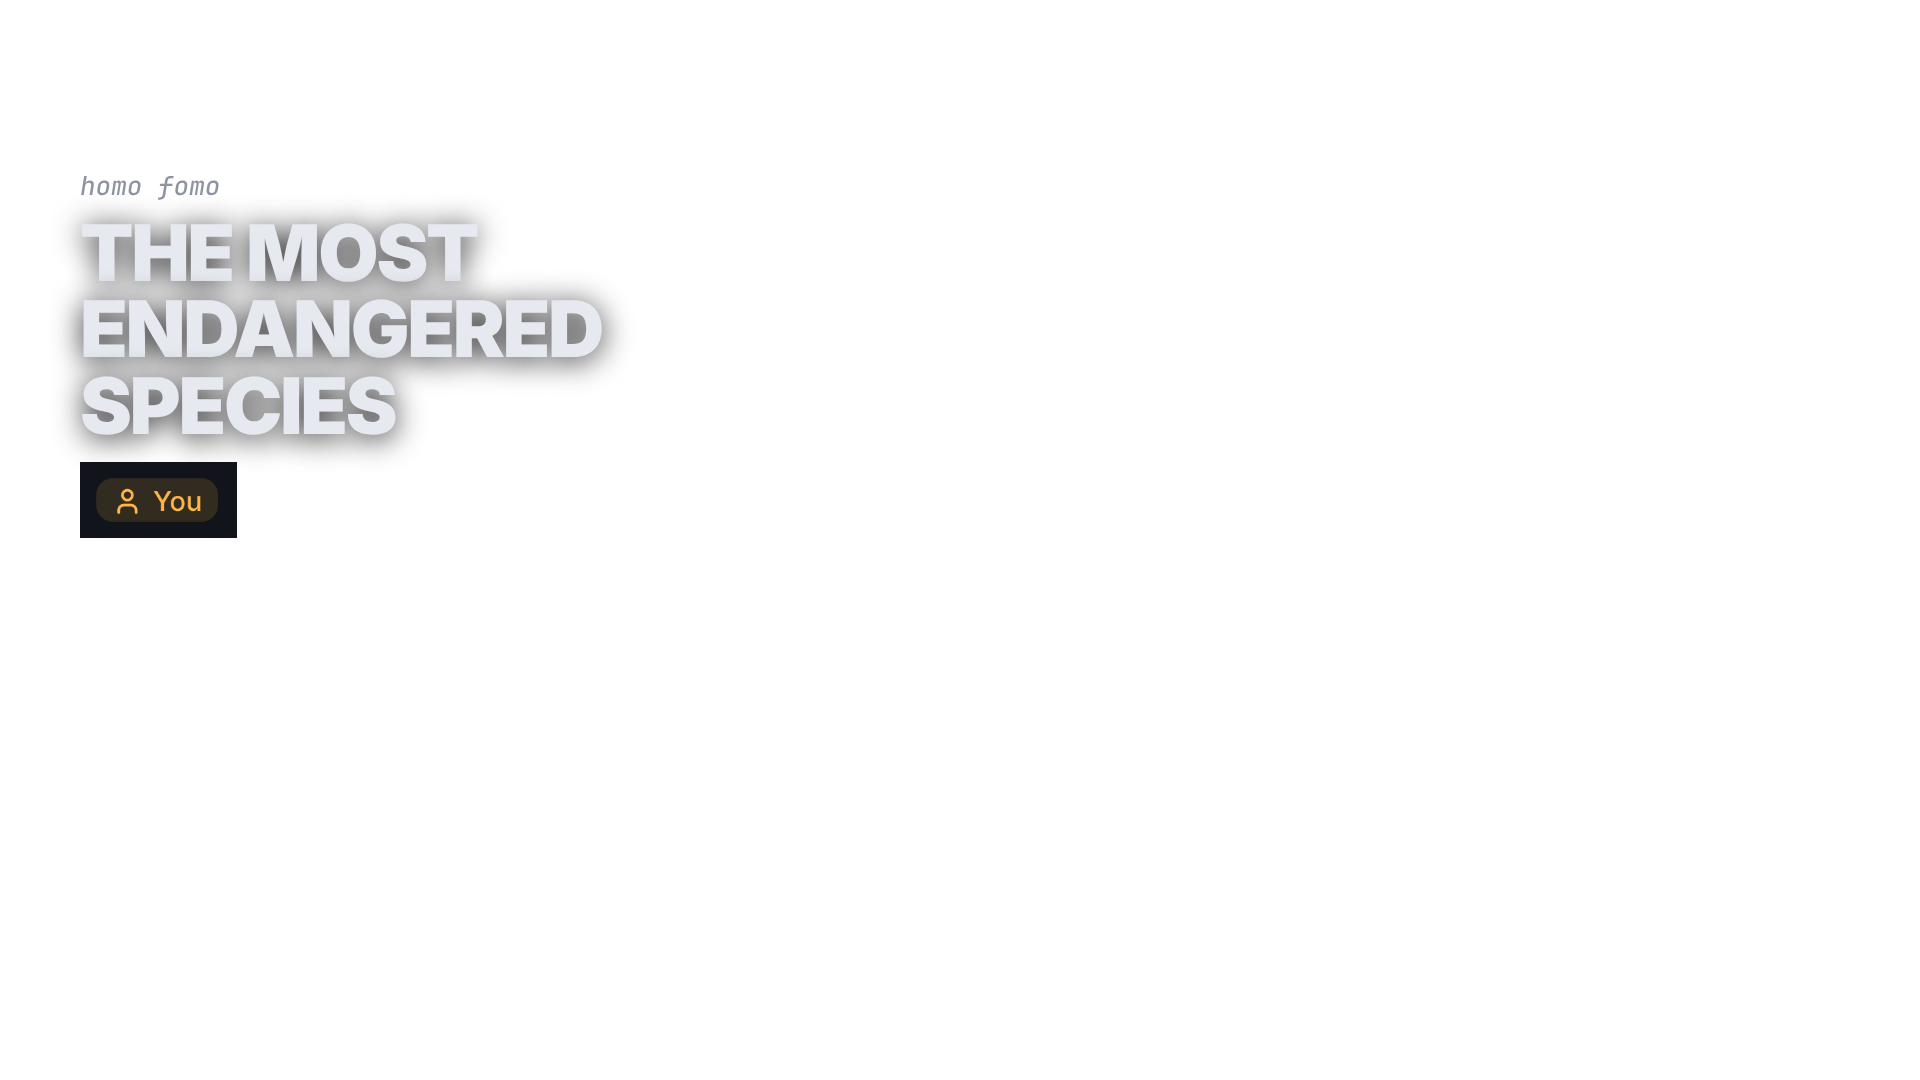
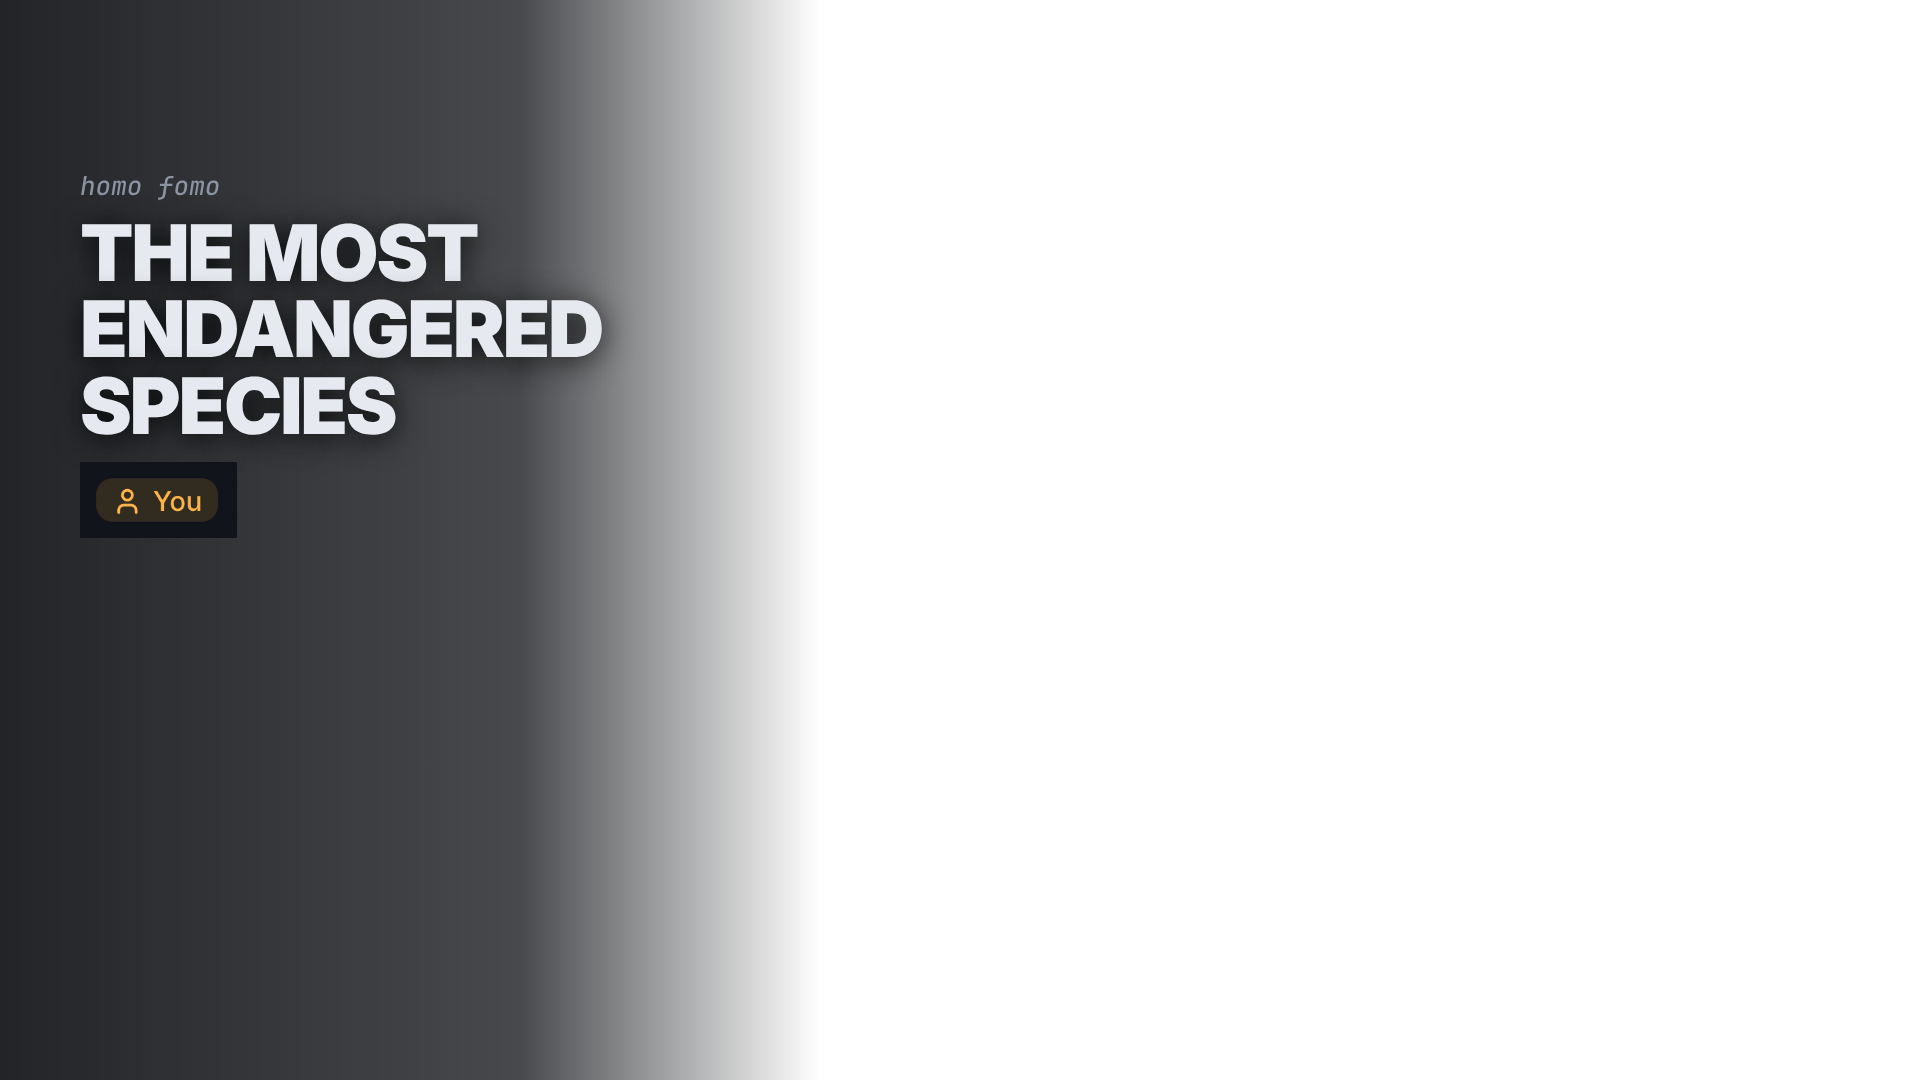
Trailer: episode label in the letterbox, scrim behind the homo-fomo column, toast shot on the fill with tickers blurred
Claude-Session: https://claude.ai/code/session_017xU29rumcgkrYhmPPFcfdL

diff --git a/marketing/tools/trailer_edit.py b/marketing/tools/trailer_edit.py
@@ -27,7 +27,8 @@ GATE = f"{APP}/trailer-gate.mp4"
 # The audit panel is static before the dialog dims the page, so shot 8 uses a real frame at t=0.3 s.
 GATE_STILL = f"{APP}/trailer-gate-t0.3.png"
 gate_blur_dialog = [[1790, 286, 116, 48], [2040, 922, 220, 48]]
-gate_blur_toast = [[3300, 128, 180, 44], [3200, 168, 700, 64], [3560, 600, 220, 90]]
+# The two ticker words in the fill toast ("Bought XXX" / "N XXX for ...").
+gate_blur_toast = [[3290, 136, 100, 34], [3308, 176, 86, 32]]
 
 segments = [
     ai(1),                                                                                     # 0.0  whale
@@ -42,7 +43,7 @@ segments = [
     {"src": f"{OV}/s9-card.png", "still": True, "dur": 1.2},                                   # 18.6 card
     {"src": GATE, "start": 1.1, "end": 1.6, "crop": [2600, 100, 1240, 698], "blur": [[3560, 548, 220, 80]]},                   # 19.8 quote preview
     {"src": GATE, "start": 3.75, "end": 6.05, "crop": [840, 260, 1920, 1080], "blur": gate_blur_dialog},  # 20.3 dialog, tick, click
-    {"src": GATE, "start": 6.35, "end": 7.75, "crop": [2600, 100, 1240, 698], "blur": gate_blur_toast},   # 22.6 fill toast
+    {"src": GATE, "start": 6.95, "end": 8.35, "crop": [2880, 80, 960, 540], "zoom": [1.0, 1.04], "blur": gate_blur_toast},  # 22.6 fill toast
     ai(11),                                                                                    # 24.0 the rug
     {"src": f"{APP}/{rug_clip}.mp4", "start": 0.2, "end": 3.2, "crop": [0, 330, 2400, 1350], "zoom": [1.0, 1.05]},  # 25.8 rug in the sim
     ai(13),                                                                                    # 28.8 respawn
@@ -75,7 +76,7 @@ overlays += [
     o("s6-card", 11.55, 13.1), o("s6-sub", 11.8, 13.1),
     o("s7-card", 13.35, 15.5), o("s7-sub", 13.6, 15.5),
     o("simbug-l", 15.6, 18.6, 0.01), o("s8-cap", 15.8, 18.5),
-    o("simbug", 19.8, 24.0, 0.01), o("s10-card", 20.0, 23.9), o("s10-sub", 20.3, 23.9),
+    o("simbug", 19.8, 24.0, 0.01), o("s10-card", 20.0, 22.55), o("s10-sub", 20.3, 22.55),
     o("s11-cap", 24.2, 25.7),
     o("simbug", 25.8, 28.8, 0.01), o("s12-red", 26.2, 27.0, 0.05), o("s12-cap", 27.1, 28.7),
     o("s13-a", 28.9, 31.1), o("s13-b", 30.0, 31.1), o("s13-note", 30.0, 31.1),

diff --git a/marketing/tools/trailer_ovl.py b/marketing/tools/trailer_ovl.py
@@ -78,7 +78,9 @@ def species(name, latin, tag, top=BAR + 40, left=200):
 
 def species_left(lines, latin, tag, top=BAR + 30, left=80, size=78):
     name = "<br>".join(html.escape(l) for l in lines)
-    return page(f'<div style="position:absolute;left:{left}px;top:{top}px;max-width:640px">'
+    # Left scrim so the column reads over busy app UI.
+    scrim = '<div style="position:absolute;left:0;top:0;bottom:0;width:820px;background:linear-gradient(90deg,rgba(10,12,16,.9) 0,rgba(10,12,16,.75) 520px,rgba(10,12,16,0) 820px)"></div>'
+    return page(f'{scrim}<div style="position:absolute;left:{left}px;top:{top}px;max-width:640px">'
                 f'<div class="mono" style="font-style:italic;font-weight:500;font-size:26px;color:#8C94A3;margin-bottom:12px">{html.escape(latin)}</div>'
                 f'<div style="font-weight:900;font-size:{size}px;letter-spacing:-.03em;line-height:.98;text-shadow:0 4px 30px rgba(0,0,0,.85)">{name}</div>'
                 f'<img src="file://{CHIPS}/{tag}.png" style="height:76px;margin-top:18px"></div>')
@@ -139,7 +141,7 @@ OVERLAYS = {
     "simbug-l": simbug_left(),
     "aitag": ai_tag(),
     "s1-hook": big_caption("everything out here\nwants your *bag.*", size=84),
-    "s1-label": label("FIELD GUIDE TO THE TRENCHES · EP.01"),
+    "s1-label": label("FIELD GUIDE TO THE TRENCHES · EP.01", y=(BAR - 30) // 2),
     "s1-reticle": reticle(885, 262, 240),
     "s1-chip": chip_at("whale", 1025, 226),
     "s2-cap": big_caption("so we built a *scope.*", size=88),
